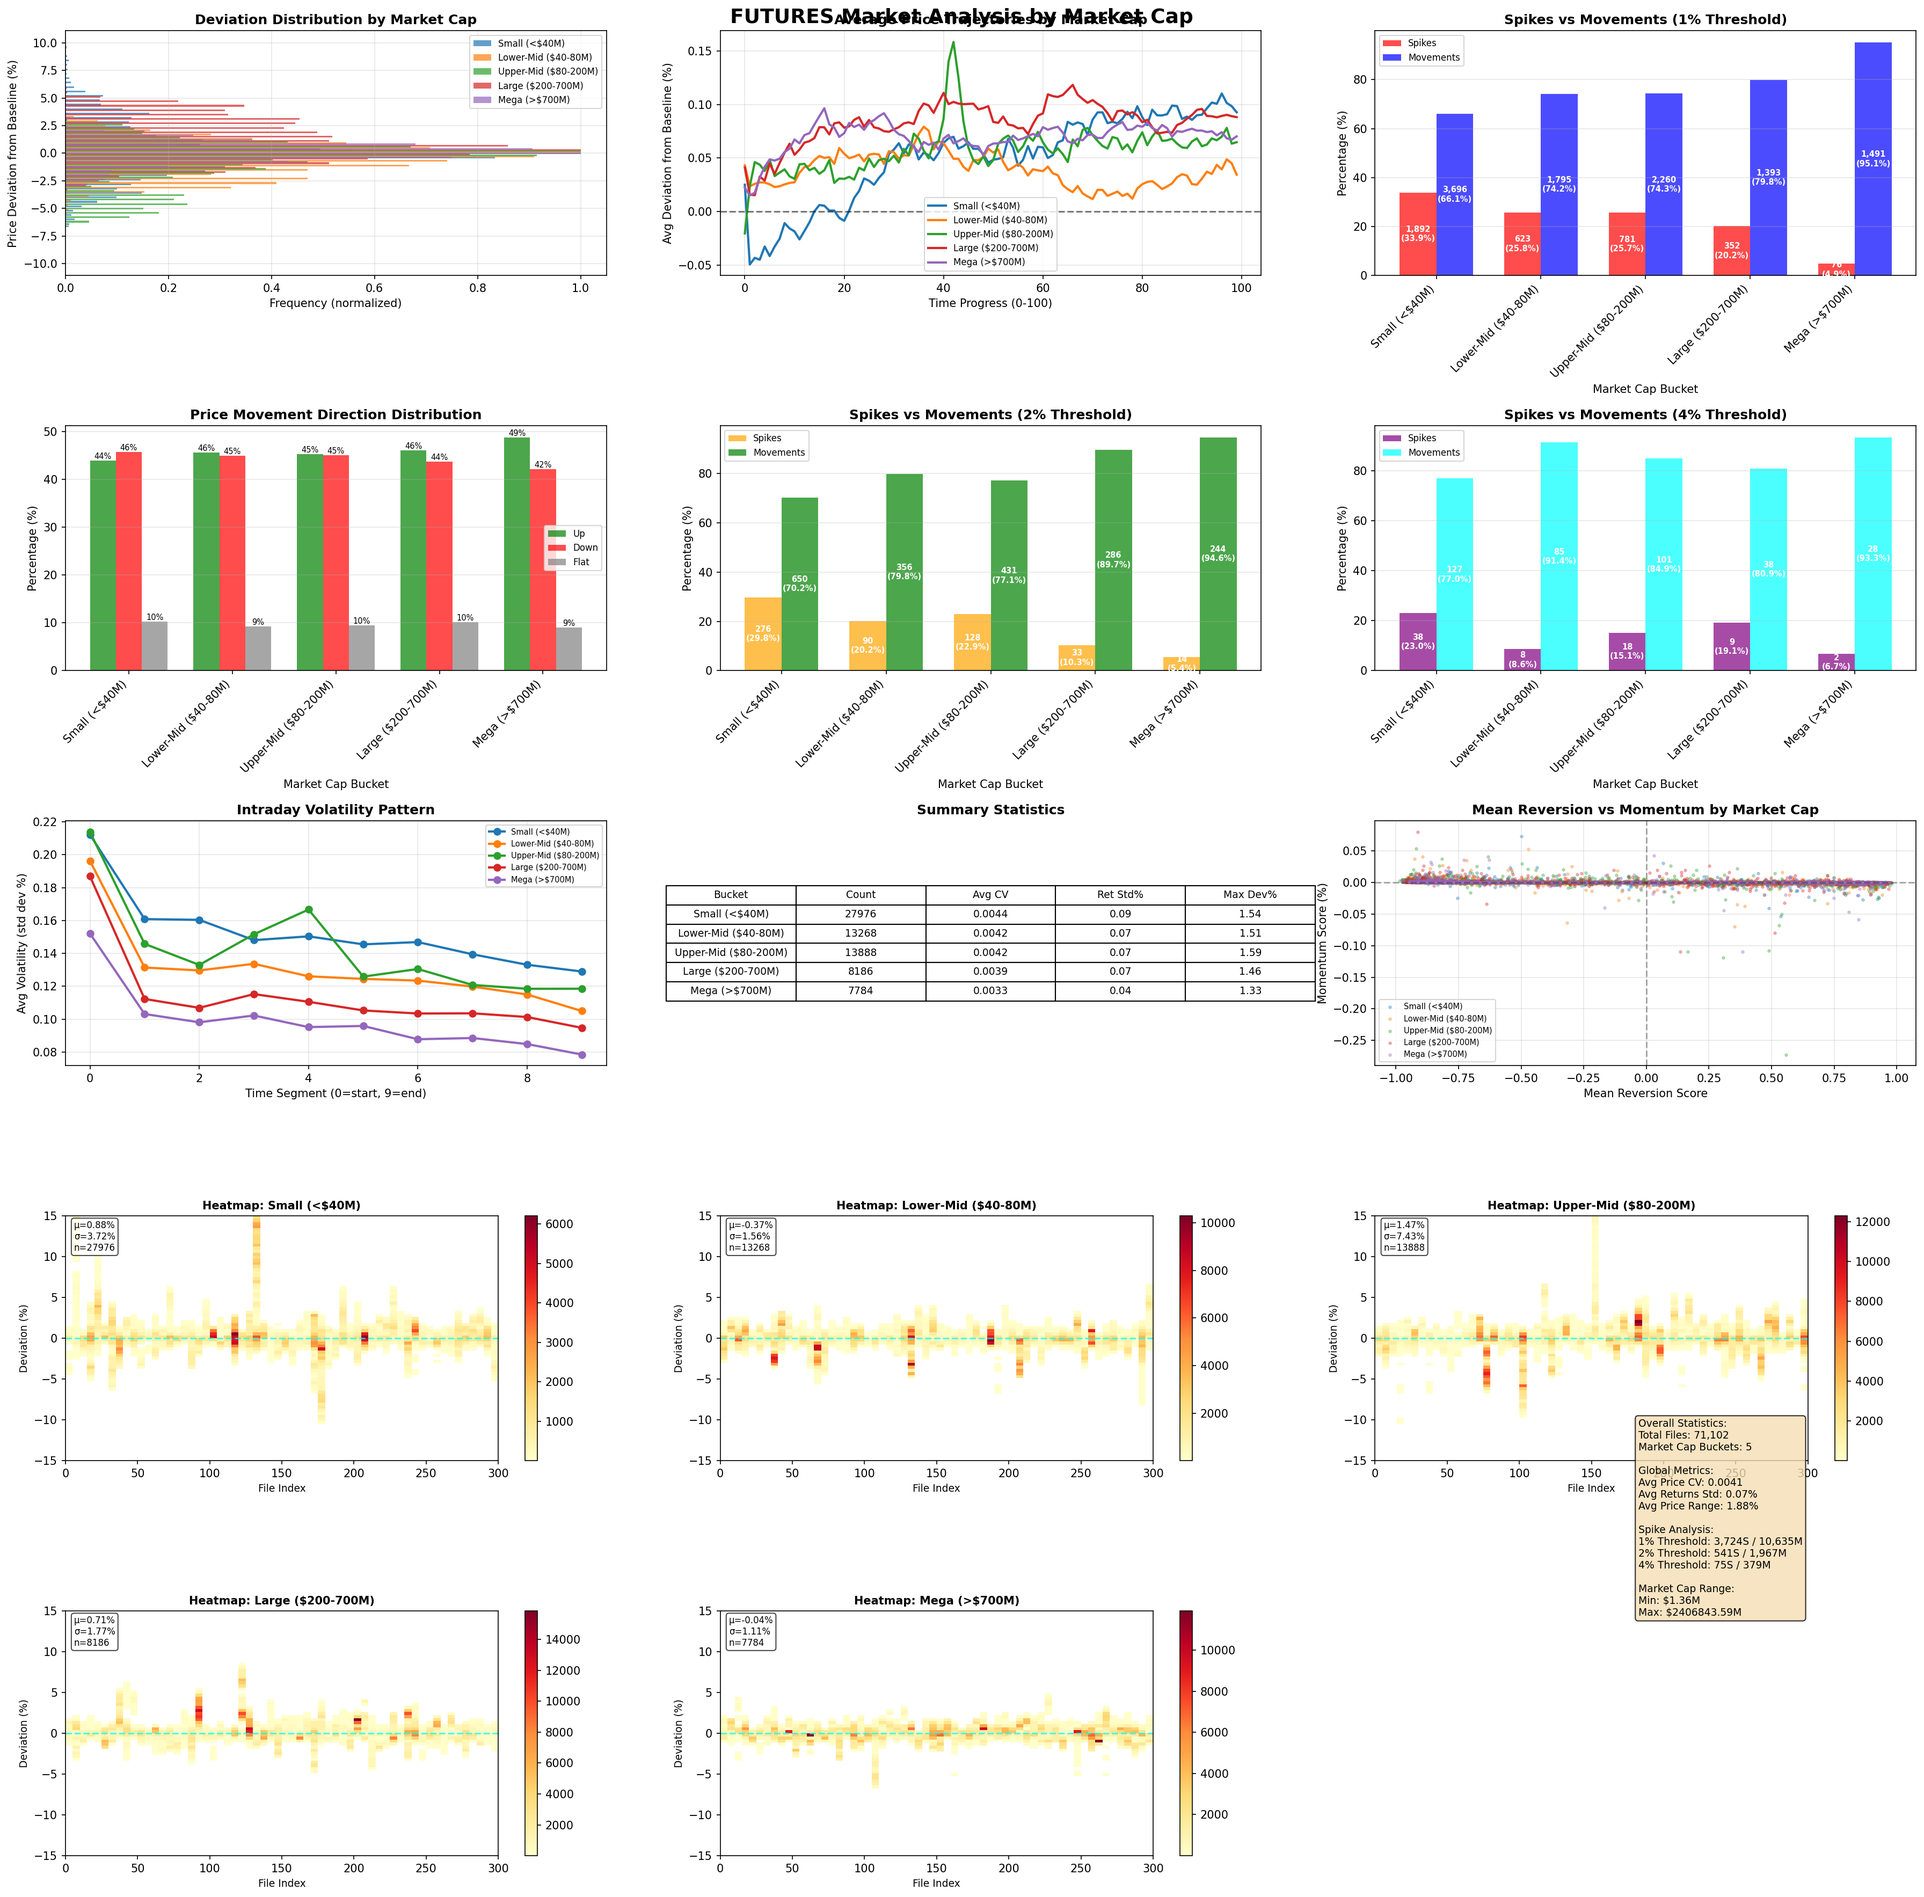
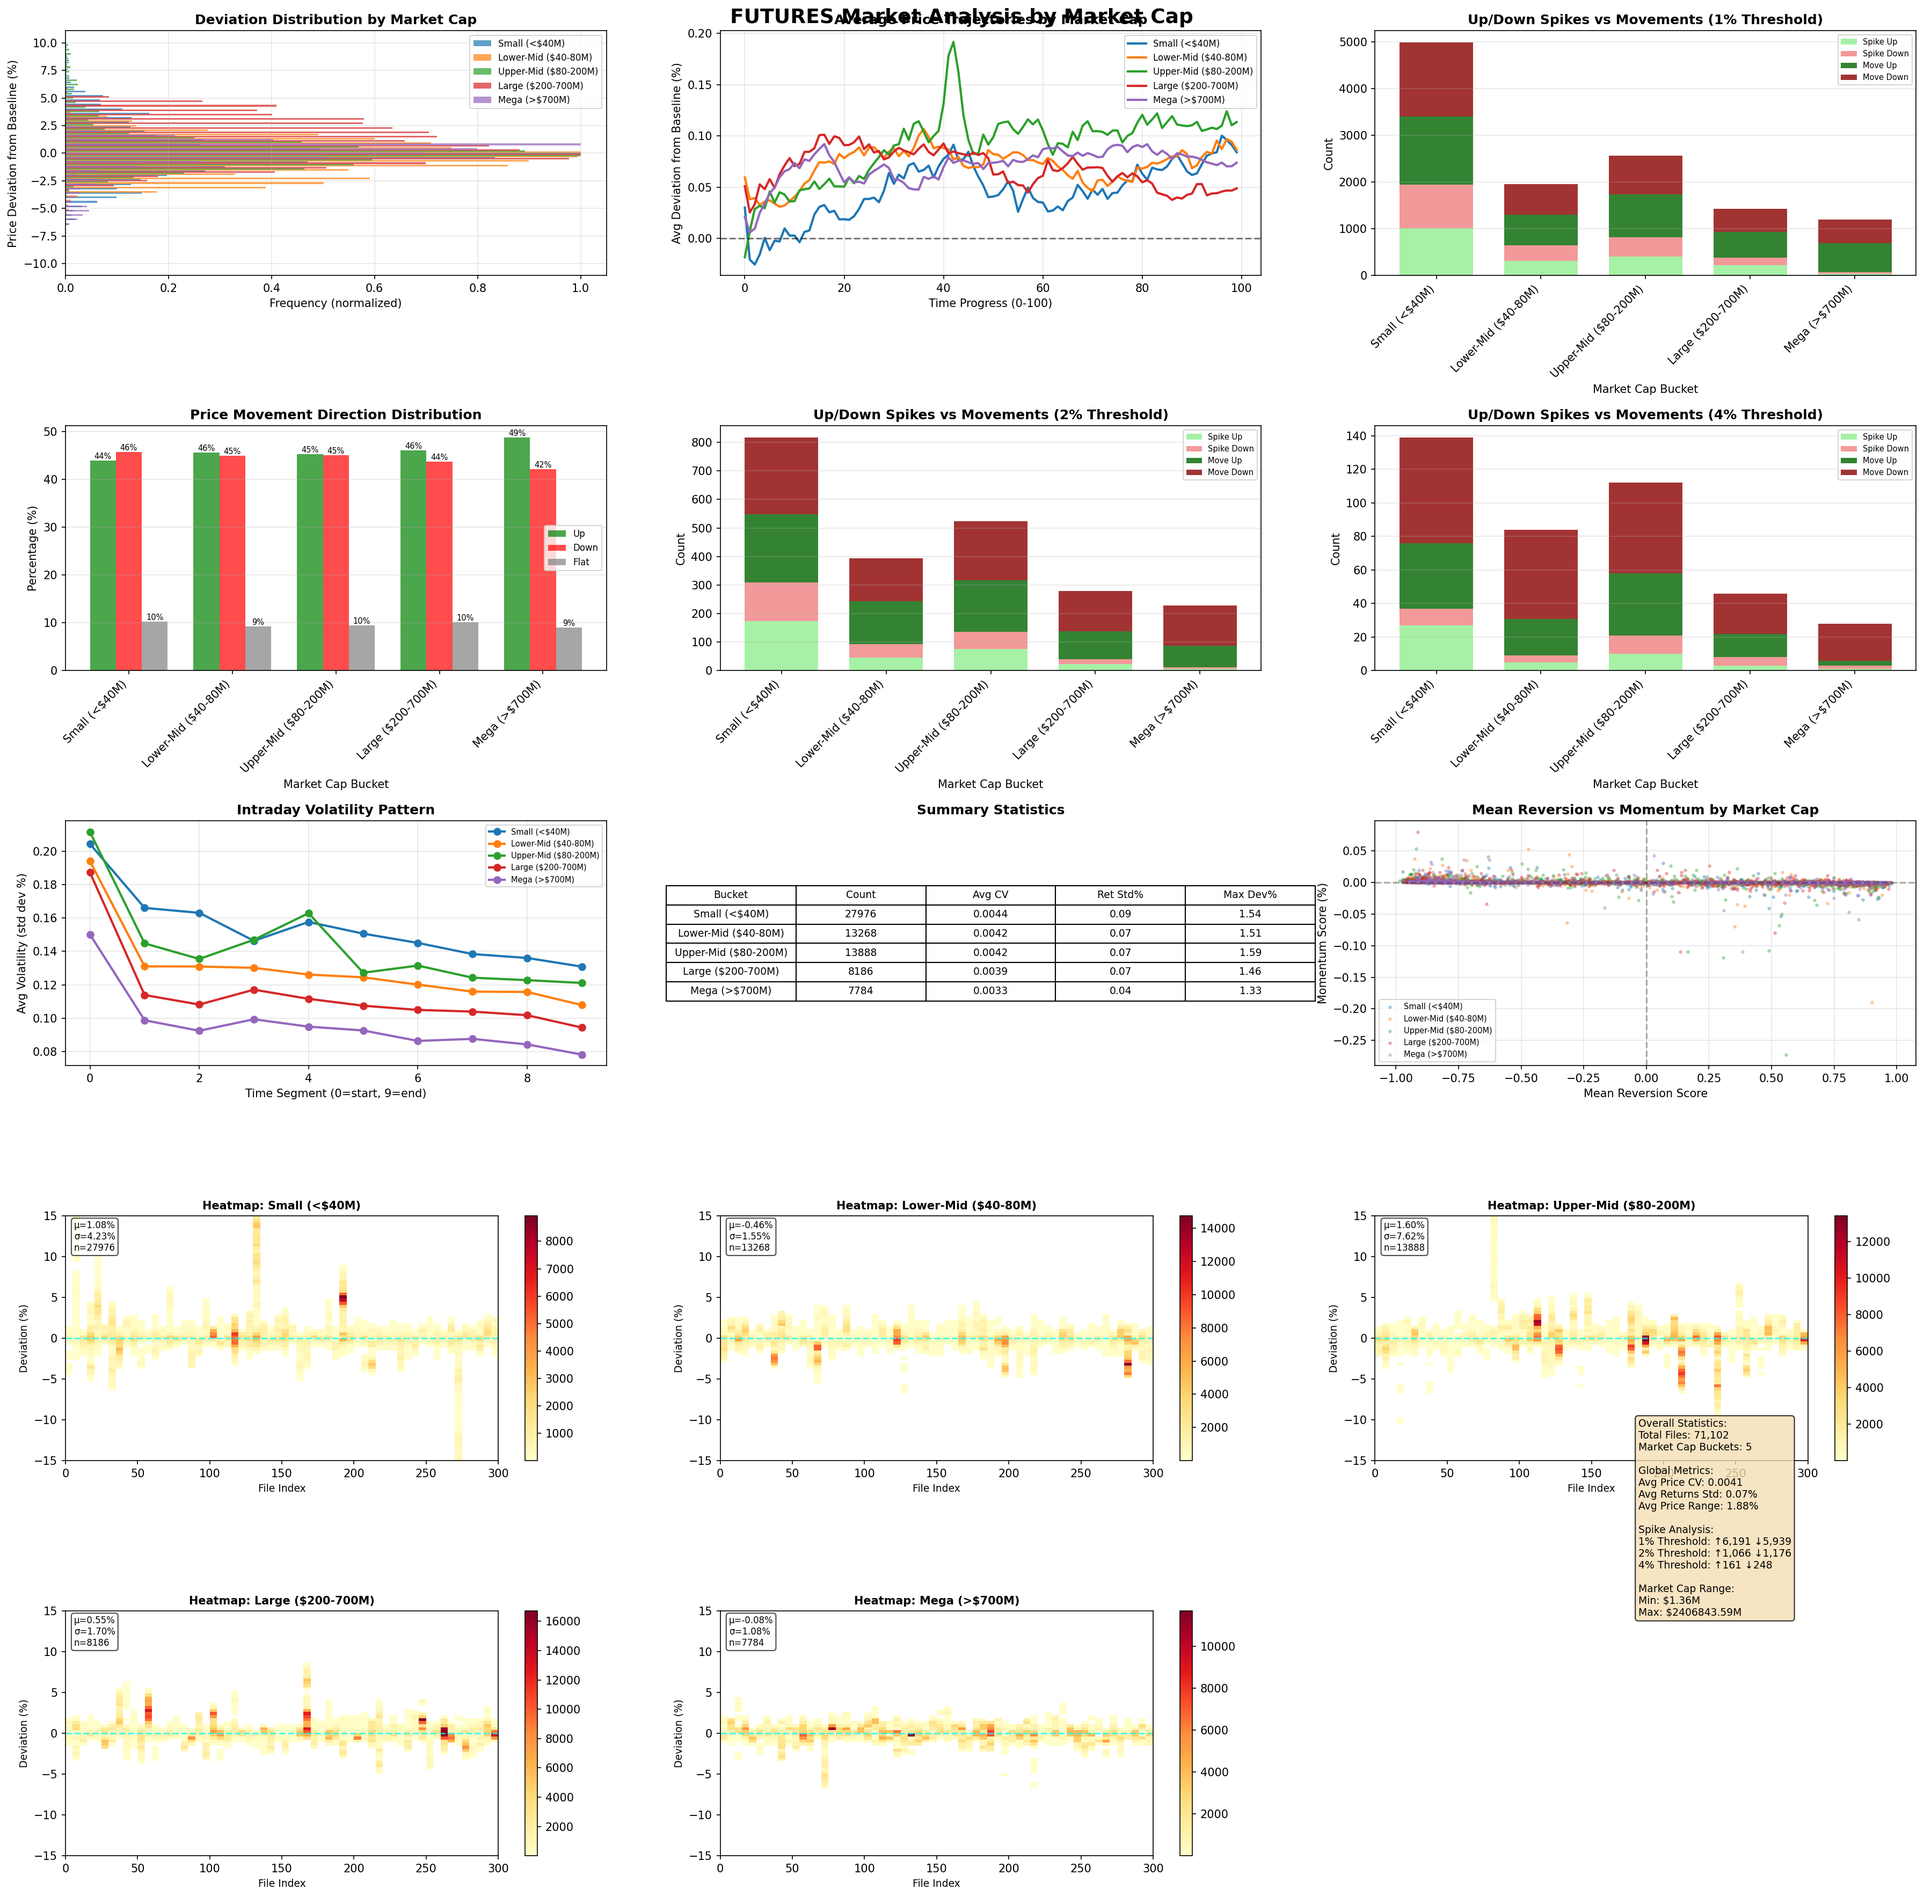
good

diff --git a/analyze_comprehensive_all.py b/analyze_comprehensive_all.py
@@ -12,12 +12,15 @@ from concurrent.futures import ProcessPoolExecutor, as_completed
 from multiprocessing import cpu_count
 import time
 
+# Market selection: 'spot', 'futures', or 'both'
+MARKET_TYPE = 'futures'  # Change this to 'futures' or 'both' as needed
+
 PARQUET_DIR = Path('/home/yahweh/code/ml/processed/parquet')
 
 def extract_marketcap_from_filename(filename):
     """Extract market cap from filename
     Spot format: SYMBOL_SPOT_MKTCAP_12345678_timestamp.parquet
-    Market cap is at position 3 for spot files
+    Futures format: SYMBOL_MKTCAP_12345678_timestamp.parquet
     """
     if hasattr(filename, 'stem'):
         name = filename.stem
@@ -25,12 +28,22 @@ def extract_marketcap_from_filename(filename):
         name = str(filename).replace('.parquet', '')
     
     parts = name.split('_')
-    # For SPOT files, market cap is at position 3 (after SYMBOL_SPOT_MKTCAP)
-    if len(parts) >= 5 and 'SPOT' in parts:
-        try:
-            return int(parts[3])  # Position 3 for spot files
-        except:
-            return 0
+    
+    # Check if SPOT file
+    if 'SPOT' in parts:
+        # For SPOT files, market cap is at position 3
+        if len(parts) >= 5:
+            try:
+                return int(parts[3])
+            except:
+                return 0
+    else:
+        # For futures files, market cap is at position 2
+        if len(parts) >= 4:
+            try:
+                return int(parts[2])
+            except:
+                return 0
     return 0
 
 def get_marketcap_bucket(marketcap):
@@ -291,15 +304,27 @@ def process_all_parallel(parquet_files):
 def main():
     start_time = time.time()
     
-    print("="*60)
-    print("SPOT MARKET ANALYSIS WITH MARKET CAP BUCKETING")
-    print("="*60)
-    
-    # Load and process only SPOT files (check filename for _SPOT_)
+    # Filter files based on market type
     all_files = list(PARQUET_DIR.glob('*.parquet'))
-    parquet_files = [f for f in all_files if '_SPOT_' in f.name]
     
-    print(f"\nProcessing all {len(parquet_files):,} files...")
+    if MARKET_TYPE == 'spot':
+        parquet_files = [f for f in all_files if '_SPOT_' in f.name]
+        title = "SPOT MARKET ANALYSIS WITH MARKET CAP BUCKETING"
+        output_file = 'comprehensive_analysis_spot.png'
+    elif MARKET_TYPE == 'futures':
+        parquet_files = [f for f in all_files if '_SPOT_' not in f.name]
+        title = "FUTURES MARKET ANALYSIS WITH MARKET CAP BUCKETING"
+        output_file = 'comprehensive_analysis_futures.png'
+    else:  # both
+        parquet_files = all_files
+        title = "COMBINED MARKET ANALYSIS WITH MARKET CAP BUCKETING"
+        output_file = 'comprehensive_analysis_combined.png'
+    
+    print("="*60)
+    print(title)
+    print("="*60)
+    
+    print(f"\nProcessing {len(parquet_files):,} files...")
     results = process_all_parallel(parquet_files)
     
     if not results:
@@ -706,11 +731,18 @@ def main():
     fig.text(0.85, 0.25, stats_text, transform=fig.transFigure, fontsize=9,
              verticalalignment='top', bbox=dict(boxstyle='round', facecolor='wheat', alpha=0.8))
     
-    plt.suptitle('SPOT Market Analysis by Market Cap', fontsize=18, fontweight='bold', y=0.98)
+    # Set title based on market type
+    if MARKET_TYPE == 'spot':
+        fig_title = 'SPOT Market Analysis by Market Cap'
+    elif MARKET_TYPE == 'futures':
+        fig_title = 'FUTURES Market Analysis by Market Cap'
+    else:
+        fig_title = 'Combined Market Analysis by Market Cap'
+    
+    plt.suptitle(fig_title, fontsize=18, fontweight='bold', y=0.98)
     plt.tight_layout()
     
-    # Save
-    output_file = 'comprehensive_analysis_spot.png'
+    # Save with appropriate filename
     plt.savefig(output_file, dpi=150, bbox_inches='tight')
     print(f"\n✓ Saved as '{output_file}'")
     print(f"Total time: {time.time() - start_time:.1f} seconds")
